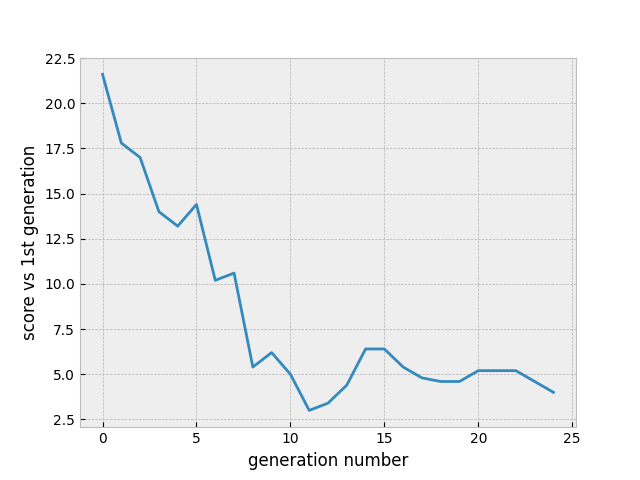
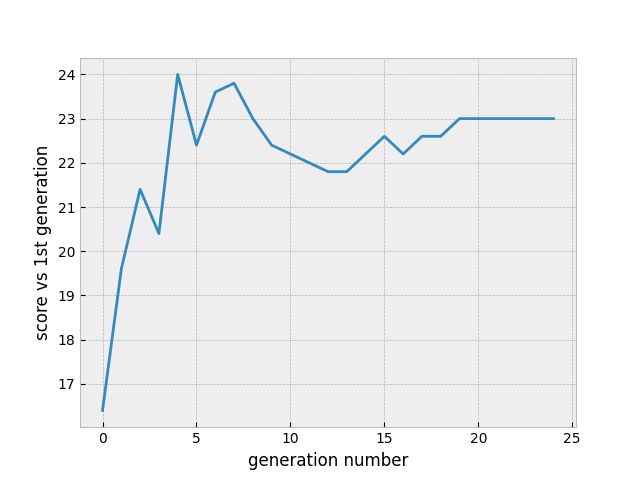
checkpoint 4/14

diff --git a/test_game.py b/test_game.py
@@ -1,13 +1,33 @@
+import matplotlib.pyplot as plt
+plt.style.use('bmh')
 from game import *
 from player import *
 
-info = {0: {Player() : 0 for _ in range(25)}}
+# made line 10 like line 9, aka get the top 5 players by score. the 2nd bracket (the empty one) in line 10 should be the player id, which you get using the scores dict.
+
+# info = {0: {Player() : 0 for _ in range(25)}}
+# dict(sorted(info[i].items(), key=lambda elem: elem[1])).keys()
+# players[i][][-5:]
+
+players = {0: [Player() for _ in range(25)]}
+scores  = {0: {i:0 for i in range(25)}}
+
 plot_1 = []
+plot_2 = []
+
+def set_player_id(i):
+    for j in range(25):
+        players[i][iden].id = j
 
 def have_strategies_fight(i):
 
-    for player_1 in info[i]:
-        for player_2 in [elem for elem in info[i] if elem != player_1]:
+    set_player_id(i)
+    if i == 0: print([player.id for player in players[0]])
+
+    for player_1 in players[i]:
+        for player_2 in players[i]:
+
+            if player_1.id == player_2.id: continue
 
             for n in [1, 2]:
 
@@ -15,18 +35,20 @@ def have_strategies_fight(i):
                 game.run_to_completion()
 
                 if game.winner == 1:
-                    info[i][player_1] += 1
-                    info[i][player_2] -= 1
+                    info[i][player_1.id] += 1
+                    info[i][player_2.id] -= 1
 
                 elif game.winner == 2:
-                    info[i][player_1] -= 1
-                    info[i][player_2] += 1
+                    info[i][player_1.id] -= 1
+                    info[i][player_2.id] += 1
 
 def mate(i):
 
     best_5_players = list(dict(sorted(info[i].items(), key=lambda elem: elem[1])).keys())[-5:]
 
-    plot_1.append(fight_first_gen(best_5_players))
+    plot_1.append(fight_another_gen(best_5_players, 0))
+    if i != 0:
+        plot_2.append(fight_another_gen(best_5_players, i-1))
 
     next_gen = {player:0 for player in best_5_players}
 
@@ -42,13 +64,13 @@ def mate(i):
     
     return next_gen
 
-def fight_first_gen(best_5_players):
+def fight_another_gen(best_5_players, i):
     
     score = 0
 
     for player_1 in best_5_players:
 
-        for player_2 in info[0]:
+        for player_2 in info[i]:
 
             if player_1 == player_2: continue
 
@@ -64,68 +86,20 @@ def fight_first_gen(best_5_players):
     
     return score / 5
 
-# def gen_i_vs_j(i, j):
-
-    # scores = []
-
-    # for player_1 in info[i]:
-
-    #     score = 0
-
-    #     for player_2 in info[j]:
-
-    #         if player_1 == player_2: continue
-
-    #         this_round_players = [player_1, player_2]
-
-    #         for n in [1, 2]:
-
-    #             game = TicTacToe(this_round_players, who_goes_first=n)
-    #             game.run_to_completion()
-
-    #             if   game.winner == 1: score -= 1
-    #             elif game.winner == 2: score += 1
-
-    #     scores.append(score)
-
-    # return scores
-
 number_of_generations = 25
 
-# y_vals = []
-
-# plots = {
-    # 'gen 0 vs gen i': []
-    # 'gen i-1 vs gen i': []
-# }
-
 for i in range(number_of_generations):
-    
     have_strategies_fight(i)
     info[i + 1] = mate(i)
 
-    # y_val_list = fight_first_gen(i)
-    # y_vals.append(sum(y_val_list) / len(y_val_list))
-
-    # plot_1 = gen_i_vs_j(0, i)
-    # plots['gen 0 vs gen i'].append(sum(plot_1) / len(plot_1))
-
-    # if i != 0:
-        # plot_2 = gen_i_vs_j(i-1, i)
-        # plots['gen i-1 vs gen i'].append(sum(plot_2) / len(plot_2))
-
-import matplotlib.pyplot as plt
-plt.style.use('bmh')
-
 # plt.figure(1)
-plt.plot(list(range(number_of_generations)), plot_1)
-# plt.plot(list(range(number_of_generations)), plots['gen 0 vs gen i'])
-plt.xlabel('generation number')
-plt.ylabel('score vs 1st generation')
-plt.savefig('plot_1.png')
-
-# # plt.figure(2)
-# plt.plot(list(range(1, number_of_generations)), plots['gen i-1 vs gen i'])
+# plt.plot(list(range(number_of_generations)), plot_1)
 # plt.xlabel('generation number')
-# plt.ylabel('score vs previous generation')
-# plt.savefig('plot_3.png')
+# plt.ylabel('score vs 1st generation')
+# plt.savefig('plot_1.png')
+
+# plt.figure(2)
+plt.plot(list(range(1, number_of_generations)), plot_2)
+plt.xlabel('generation number')
+plt.ylabel('score vs previous generation')
+plt.savefig('plot_2.png')

diff --git a/player.py b/player.py
@@ -4,6 +4,7 @@ class Player():
     
     def __init__(self):
         self.player_number = None
+        self.id = None
         self.strategy = self.set_strategy()
 
     def set_player_number(self, n):
